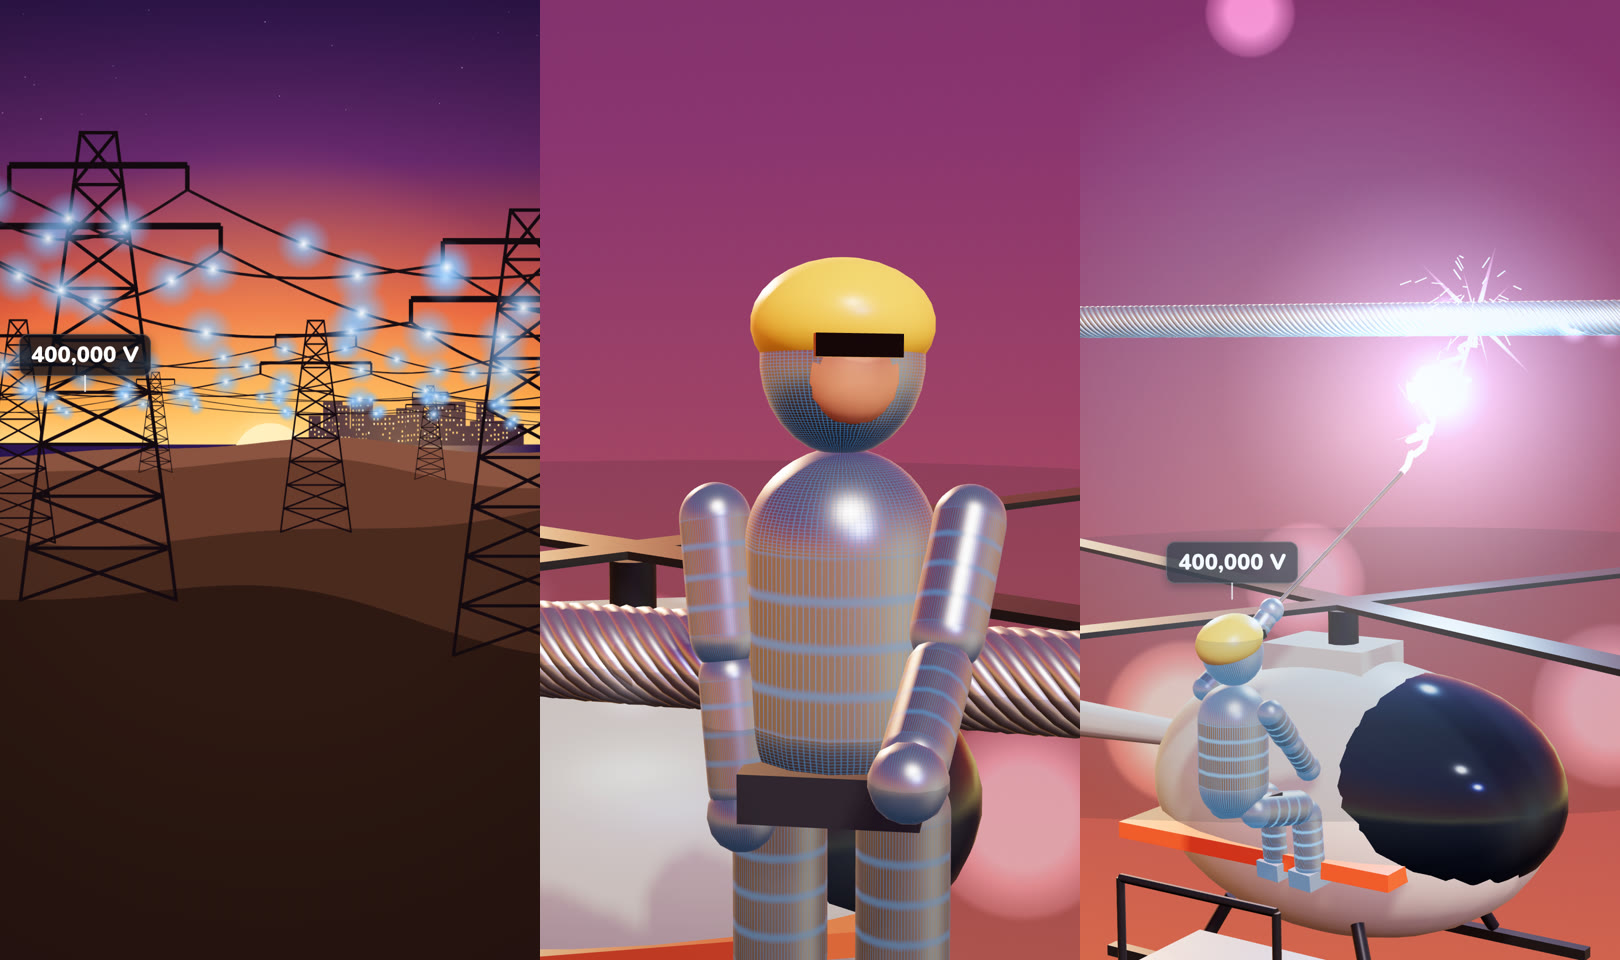
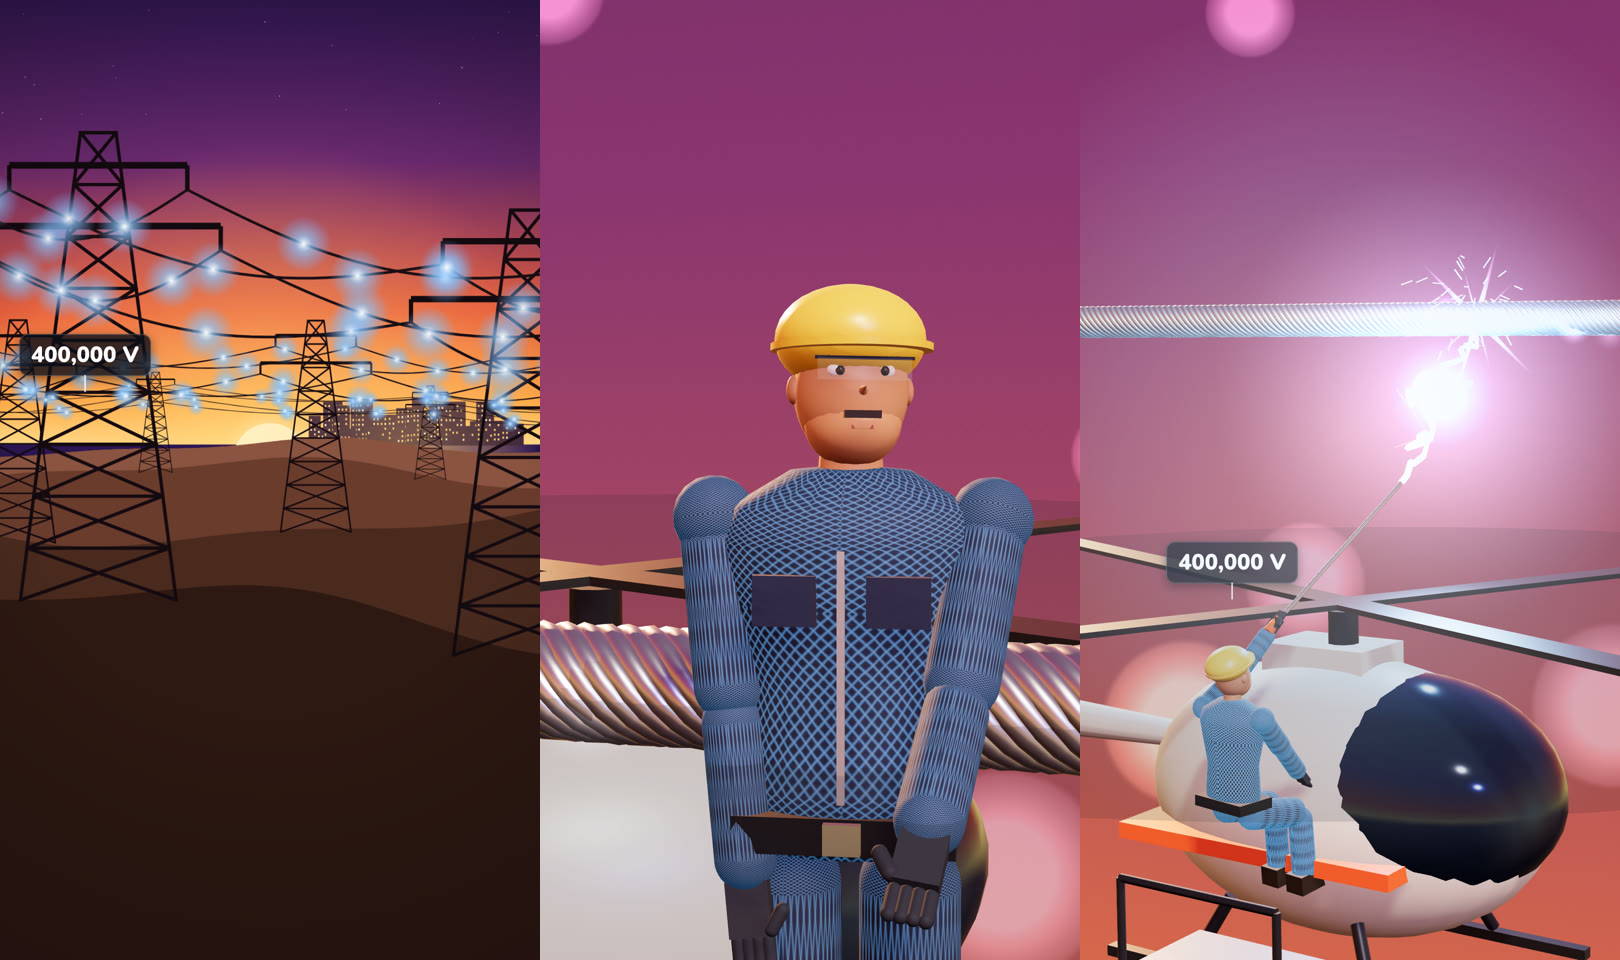
Cables con helicóptero: liniero más humano con overol conductor
Claude-Session: https://claude.ai/code/session_01NcqyoPWYYrQVxTVUuo8w3d

diff --git a/videos/cables-helicoptero/assets/lib/arreglos.js b/videos/cables-helicoptero/assets/lib/arreglos.js
@@ -106,37 +106,62 @@
     return g;
   }
 
-  // ---------- liniero con traje conductor (tejido con hilos de metal) ----------
+  // ---------- liniero: persona con overol conductor (tela azul grisácea tejida con hilos de metal) ----------
   function liniero() {
     const g = new THREE.Group(), P = {};
-    const grid = canvasTex(256, 256, (x, w, h) => { x.fillStyle = '#B9BEC6'; x.fillRect(0, 0, w, h); x.strokeStyle = '#8A9098'; x.lineWidth = 3; for (let i = 0; i <= 256; i += 16) { x.beginPath(); x.moveTo(i, 0); x.lineTo(i, h); x.stroke(); x.beginPath(); x.moveTo(0, i); x.lineTo(w, i); x.stroke(); } });
-    grid.wrapS = grid.wrapT = THREE.RepeatWrapping; grid.repeat.set(6, 6);
-    const emi = canvasTex(256, 256, (x, w, h) => { x.fillStyle = '#000'; x.fillRect(0, 0, w, h); x.strokeStyle = '#9CD8FF'; x.lineWidth = 3; for (let i = 0; i <= 256; i += 16) { x.beginPath(); x.moveTo(i, 0); x.lineTo(i, h); x.stroke(); x.beginPath(); x.moveTo(0, i); x.lineTo(w, i); x.stroke(); } }, false);
-    emi.wrapS = emi.wrapT = THREE.RepeatWrapping; emi.repeat.set(6, 6);
-    const suit = new THREE.MeshStandardMaterial({ color: '#D6DAE0', map: grid, metalness: .85, roughness: .32, emissive: '#7CC8FF', emissiveMap: emi, emissiveIntensity: 0, envMapIntensity: 1.3 });
-    const visor = std('#141A24', { metalness: .6, roughness: .1 }), face = std('#C98E68', { roughness: .6 });
-    const cap = (r, h) => new THREE.CapsuleGeometry(r, h, 6, 14);
+    // tela: azul grisáceo con hilos plateados finos (diagonal), los hilos se encienden con brilla(k)
+    const fab = canvasTex(256, 256, (x, w, h) => { x.fillStyle = '#2E3A52'; x.fillRect(0, 0, w, h); const q = rng(4); for (let i = 0; i < 1800; i++) { x.fillStyle = q() < .5 ? 'rgba(30,38,52,.25)' : 'rgba(120,135,160,.2)'; x.fillRect(q() * w, q() * h, 2, 1); }
+      x.strokeStyle = 'rgba(190,200,215,.28)'; x.lineWidth = 1; for (let i = -256; i < 512; i += 10) { x.beginPath(); x.moveTo(i, 0); x.lineTo(i + 256, h); x.stroke(); x.beginPath(); x.moveTo(i + 256, 0); x.lineTo(i, h); x.stroke(); } });
+    fab.wrapS = fab.wrapT = THREE.RepeatWrapping; fab.repeat.set(2, 2);
+    const emi = canvasTex(256, 256, (x, w, h) => { x.fillStyle = '#000'; x.fillRect(0, 0, w, h); x.strokeStyle = '#8CD2FF'; x.lineWidth = 1.6; for (let i = -256; i < 512; i += 10) { x.beginPath(); x.moveTo(i, 0); x.lineTo(i + 256, h); x.stroke(); x.beginPath(); x.moveTo(i + 256, 0); x.lineTo(i, h); x.stroke(); } }, false);
+    emi.wrapS = emi.wrapT = THREE.RepeatWrapping; emi.repeat.set(2, 2);
+    const suit = new THREE.MeshStandardMaterial({ map: fab, roughness: .78, metalness: .25, emissive: '#7CC8FF', emissiveMap: emi, emissiveIntensity: 0 });
+    const skin = std('#C68D68', { roughness: .55 }), glove = std('#2E333C', { roughness: .7 }), boot = std('#2A2420', { roughness: .6 }), belt = std('#1E2128', { roughness: .5, metalness: .3 });
+    const cap = (r, h) => new THREE.CapsuleGeometry(r, h, 6, 16);
+    // piernas
     for (const s of [-1, 1]) {
-      const hip = new THREE.Group(); hip.position.set(s * .13, .95, 0); g.add(hip); hip.add(M(cap(.1, .32), suit, 0, -.22, 0));
-      const knee = new THREE.Group(); knee.position.y = -.46; hip.add(knee); knee.add(M(cap(.09, .3), suit, 0, -.2, 0)); knee.add(box(.17, .1, .3, suit, 0, -.42, .05));
+      const hip = new THREE.Group(); hip.position.set(s * .1, .92, 0); g.add(hip); hip.add(M(cap(.085, .32), suit, 0, -.21, 0));
+      const knee = new THREE.Group(); knee.position.y = -.44; hip.add(knee); knee.add(M(cap(.072, .3), suit, 0, -.2, 0));
+      const b = box(.13, .11, .26, boot, 0, -.42, .04); knee.add(b);
       P[s < 0 ? 'legL' : 'legR'] = hip; P[s < 0 ? 'kneeL' : 'kneeR'] = knee;
     }
-    const torso = new THREE.Group(); torso.position.y = .95; g.add(torso); P.torso = torso;
-    torso.add(M(cap(.2, .36), suit, 0, .32, 0)); torso.add(box(.36, .1, .18, std('#3A3F48', { metalness: .5 }), 0, .02, .12));   // cinturón
+    // torso con forma (más ancho en el pecho)
+    const torso = new THREE.Group(); torso.position.y = .92; g.add(torso); P.torso = torso;
+    const prof = [[0, 0], [.17, .02], [.18, .12], [.17, .28], [.2, .42], [.22, .52], [.2, .58], [.1, .64], [0, .65]].map(([r, y]) => new THREE.Vector2(r, y));
+    const chest = M(new THREE.LatheGeometry(prof, 24), suit); chest.scale.set(1, 1, .68); torso.add(chest);
+    torso.add(box(.36, .06, .25, belt, 0, .06, 0)); torso.add(box(.06, .05, .03, std('#C8CDD4', { metalness: .9, roughness: .2 }), 0, .06, .125));
+    torso.add(box(.012, .4, .012, std('#C8CDD4', { metalness: .9 }), 0, .32, .145));   // cierre
+    for (const s of [-1, 1]) torso.add(box(.1, .08, .02, std('#26304A'), s * .09, .44, .14));   // bolsas del pecho
+    const neck = cyl(.05, .055, .06, skin, 12, 0, .66, 0); torso.add(neck);
+    // brazos
     for (const s of [-1, 1]) {
-      const sh = new THREE.Group(); sh.position.set(s * .27, .6, 0); torso.add(sh); sh.add(M(cap(.075, .24), suit, 0, -.17, 0));
-      const el = new THREE.Group(); el.position.y = -.34; sh.add(el); el.add(M(cap(.065, .22), suit, 0, -.15, 0)); el.add(ball(.075, suit, 0, -.32, 0, 12));
-      P[s < 0 ? 'armL' : 'armR'] = sh; P[s < 0 ? 'elbowL' : 'elbowR'] = el;
+      const sh = new THREE.Group(); sh.position.set(s * .23, .56, 0); torso.add(sh); sh.add(ball(.07, suit, 0, 0, 0, 14)); sh.add(M(cap(.06, .24), suit, 0, -.16, 0));
+      const el = new THREE.Group(); el.position.y = -.31; sh.add(el); el.add(M(cap(.052, .22), suit, 0, -.14, 0));
+      const hand = new THREE.Group(); hand.position.y = -.3; el.add(hand); const palm = box(.07, .09, .04, glove, 0, -.03, 0); hand.add(palm);
+      for (let f = 0; f < 4; f++) hand.add(M(cap(.011, .04), glove, -.025 + f * .017, -.1, 0)); const th = M(cap(.012, .035), glove, s * -.045, -.05, .015); th.rotation.z = s * .6; hand.add(th);
+      P[s < 0 ? 'armL' : 'armR'] = sh; P[s < 0 ? 'elbowL' : 'elbowR'] = el; P[s < 0 ? 'handL' : 'handR'] = hand;
     }
-    const head = new THREE.Group(); head.position.y = .88; torso.add(head); P.head = head;
-    const hood = ball(.17, suit, 0, 0, 0, 22); hood.scale.set(1, 1.15, 1.05); head.add(hood);
-    const fc = ball(.11, face, 0, -.02, .1, 18); fc.scale.set(1, 1.1, .75); head.add(fc);
-    const gl = box(.17, .045, .03, visor, 0, .02, .185); head.add(gl);   // lentes de seguridad
-    const helmet = ball(.18, std('#F2C230', { roughness: .35 }), 0, .07, 0, 22); helmet.scale.set(1.05, .75, 1.1); head.add(helmet);
-    g.userData = Object.assign(P, { suit, brilla(k) { suit.emissiveIntensity = k; emi.offset.set(0, 0); } });
+    // cabeza con rasgos
+    const head = new THREE.Group(); head.position.y = .77; torso.add(head); P.head = head;
+    const skull = ball(.105, skin, 0, 0, 0, 28); skull.scale.set(.9, 1.12, 1); head.add(skull);
+    const jaw = ball(.085, skin, 0, -.05, .015, 22); jaw.scale.set(.95, .9, 1); head.add(jaw);
+    for (const s of [-1, 1]) { const ear = ball(.024, skin, s * .095, 0, -.005, 10); ear.scale.set(.5, 1, .8); head.add(ear); }
+    const nose = M(new THREE.ConeGeometry(.018, .05, 10), skin); nose.position.set(0, -.005, .1); nose.rotation.x = Math.PI / 2 - .25; head.add(nose);
+    for (const s of [-1, 1]) {
+      const w = ball(.016, std('#F4F0EA', { roughness: .3 }), s * .036, .028, .085, 12); w.scale.set(1.2, .8, .6); head.add(w);
+      head.add(ball(.008, std('#2A1C14', { roughness: .2 }), s * .036, .027, .095, 8));
+      const br = box(.038, .008, .01, std('#2A1C14'), s * .037, .055, .093); br.rotation.z = -s * .08; head.add(br);
+    }
+    head.add(box(.06, .012, .015, std('#2A1C14'), 0, -.042, .095));   // bigote
+    head.add(box(.035, .007, .01, std('#8A4A3A'), 0, -.062, .092));   // boca
+    // gafas de seguridad y casco
+    const lens = new THREE.MeshStandardMaterial({ color: '#BFD8F0', metalness: .2, roughness: .05, transparent: true, opacity: .22, depthWrite: false });
+    head.add(box(.15, .034, .01, lens, 0, .028, .112)); head.add(box(.16, .005, .005, belt, 0, .046, .112));
+    const helmet = ball(.125, std('#F2C230', { roughness: .35 }), 0, .085, -.01, 26); helmet.scale.set(1.0, .72, 1.08); head.add(helmet);
+    const brim = cyl(.14, .14, .012, std('#E8B828', { roughness: .4 }), 26, 0, .07, .005); brim.scale.set(.95, 1, 1.1); head.add(brim);
+    g.userData = Object.assign(P, { suit, brilla(k) { suit.emissiveIntensity = k; } });
     return g;
   }
-
   // ---------- pajarito ----------
   function pajaro() {
     const g = new THREE.Group(), P = {}, plum = std('#6A4A36', { roughness: .8 }), belly = std('#E8C9A0', { roughness: .8 }), dark = std('#1E1A18');

diff --git a/videos/cables-helicoptero/compositions/film.html b/videos/cables-helicoptero/compositions/film.html
@@ -50,9 +50,9 @@
           heli.position.set(-1.3, -1.1, -1.8); heli.rotation.set(0, .5, 0);
           man.position.set(.15, -1.1, .4); man.rotation.set(0, .15, 0); man.scale.setScalar(1);
           P.armR.rotation.set(-.5, 0, -.15); P.elbowR.rotation.set(-.5, 0, 0); P.armL.rotation.set(-.15, 0, .12); P.head.rotation.set(-.05, .3, 0);
-          P.brilla(.15 + .35 * (.5 + .5 * Math.sin(lt * 3)));
+          P.brilla(.1 + .5 * (.5 + .5 * Math.sin(lt * 3)));
           rod.visible = false; arc.userData.set(V3(), V3(0, .1, 0), t, 0); star.visible = false;
-          camPath(camera, lt, [[-.3, [1.1, .75, 3.6], [.05, .45, .3]], [4.5, [.9, .8, 3.1], [.05, .5, .3]]]);
+          camPath(camera, lt, [[-.3, [.85, .55, 3.0], [.08, .42, .4]], [4.5, [.7, .62, 2.6], [.08, .47, .4]]]);
           return { labels: [] };
         }
         // contacto: el helicóptero se acerca, toca el cable con la varilla y salta el arco
